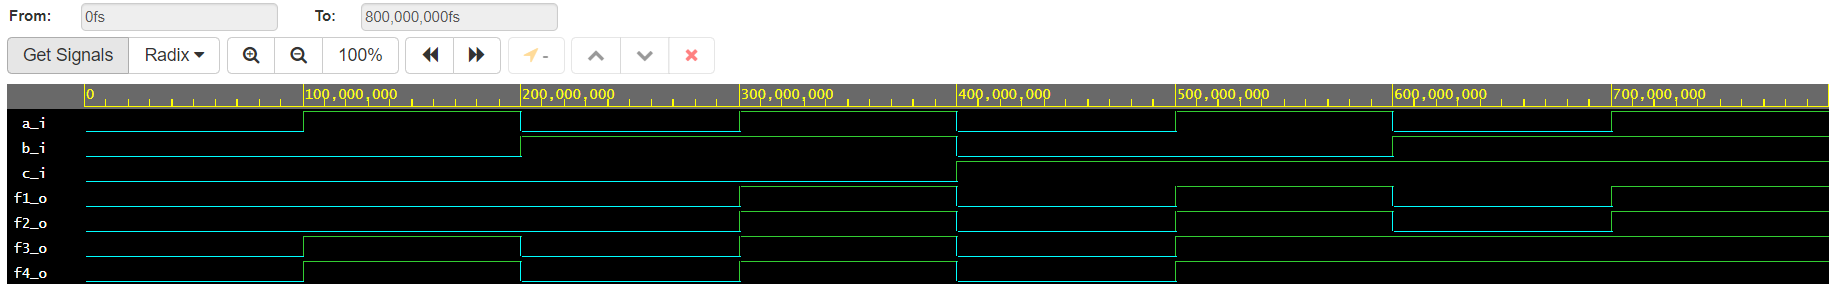
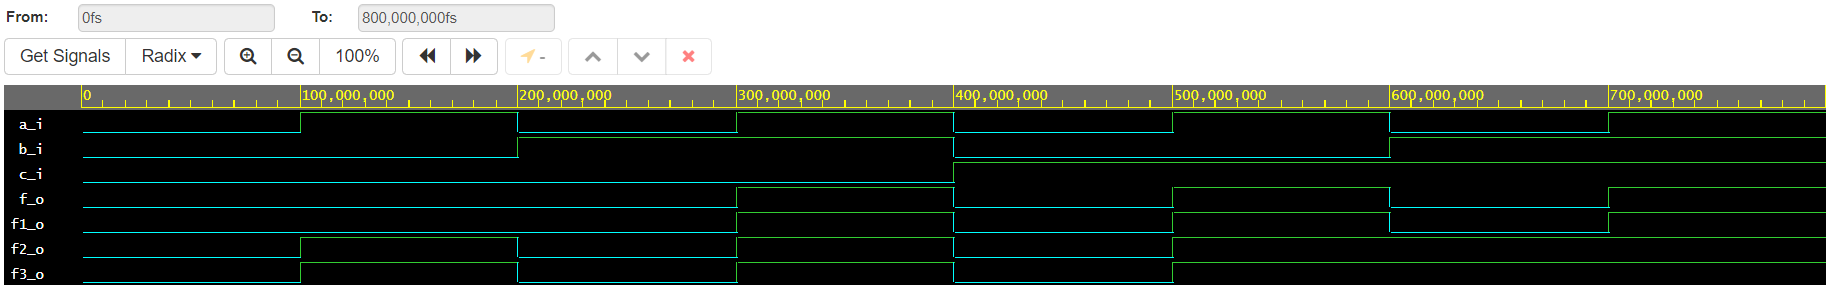
last

diff --git a/Labs/01-gates/README.md b/Labs/01-gates/README.md
@@ -12,9 +12,9 @@ https://github.com/mvvelja/Digital-electronics-1
 ```vhdl
 architecture dataflow of gates is
 begin
-    f_o  <= ((not b_i) and a_i) or ((not c_i) and (not b_i));
+    f_o     <= ((not b_i) and a_i) or ((not c_i) and (not b_i));
     fnand_o <= not (not (not b_i and a_i) and not(not b_i and not c_i));
-    fnor_o <= (not (b_i or not a_i)) or (not (c_i or b_i));
+    fnor_o  <= (not (b_i or not a_i)) or (not (c_i or b_i));
 
 end architecture dataflow;
 ```
@@ -50,10 +50,10 @@ https://www.edaplayground.com/x/GYxg
 ```vhdl
 architecture dataflow of gates is
 begin
-    f1_o <= (a_i and b_i)or(a_i and c_i);
-	f2_o <= a_i and (b_i or c_i);
-	f3_o <= (a_i or b_i) and (a_i or c_i);
-	f4_o <= a_i or (b_i and c_i);
+        f_o  <= (a_i and b_i) or (a_i and c_i);
+	f1_o <= a_i and (b_i or c_i);
+	f2_o <= (a_i or b_i) and (a_i or c_i);
+	f3_o <= a_i or (b_i and c_i);
 
 end architecture dataflow;
 ```
